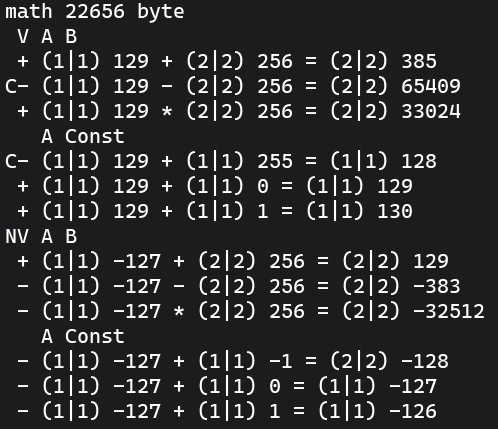
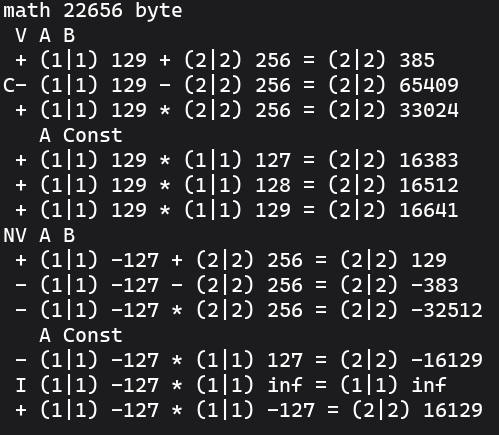
v14.2

diff --git a/main.c b/main.c
@@ -20,11 +20,11 @@ void Num(anu s, an a) { anu ns, t[m]; if (s > 8) { printf(" %d|? ", s + 1); retu
     else if (ns) printf("%u ", *(uint16_t*)a); else printf("%u ", *(uint8_t*)a); } }
 void Show(char s) { Flong(la,lb); Mat.C = 0;
   if (s == '+') FAdd(); else if (s == '-') FSub(); else if (s == '*') FMul(); else if (s == '/') FDiv();
-  else { FSubc(255); } printf("%c%c ", Mat.C ? 'C':' ', Mat.F ? (Mat.N ? 'I':'Z') : (Mat.N ? '-':'+'));
-  Num(la, Mat.A); if (s == 'c') printf("- "); else { printf("%c ", s); } Num(Mat.lb, Mat.b); printf("= "); Num(Mat.l, Mat.R);
+  else { FMulc(127); } printf("%c%c ", Mat.C ? 'C':' ', Mat.F ? (Mat.N ? 'I':'Z') : (Mat.N ? '-':'+'));
+  Num(la, Mat.A); if (s == 'c') printf("* "); else { printf("%c ", s); } Num(Mat.lb, Mat.b); printf("= "); Num(Mat.l, Mat.R);
   if (s == '/') { printf("  %c ", Mat.Fe ? (Mat.Ne ? 'I':'Z') : (Mat.Ne ? '-':'+')); Num(Mat.le, Mat.E); } printf("\n"); }
 void Const(void) { an sb; anu l, i = 2; printf("   A Const\n"); Show('c'); sb = Mat.B;
-  Mat.B = Mat.b; l = lb; lb = Mat.lb; while(i--) { (*Mat.B)++; Show('-'); } Mat.B = sb; lb = l; }
+  Mat.B = Mat.b; l = lb; lb = Mat.lb; while(i--) { (*Mat.B)++; Show('*'); } Mat.B = sb; lb = l; }
 void Test(void) { printf("%c%c A B\n", Mat.Nim ? 'N':' ', Mat.V ? 'V':' '); Show('+'); Show('-'); Show('*'); /*Show('/');*/Const(); }
 
 int main(void) { anu v = 1,a[m],b[m],e[m],r[m+m]; Faddr((As)r, (As)e, (As)a, (As)b);

diff --git a/README.md b/README.md
@@ -8,7 +8,7 @@
   <picture>
     <source media="(prefers-color-scheme: dark)" srcset="Plus/Spauseb.jpeg">
     <source media="(prefers-color-scheme: light)" srcset="Plus/Spausew.jpeg">
-    <img alt="Math Library Logo" src="Plus/971w.jpeg" width="100%">
+    <img alt="Math Library Show" src="Plus/Spausew.jpeg" width="100%">
   </picture>
 
 </div>
@@ -16,7 +16,7 @@
 P.s.: Блокировку убрали как только добавил сообщение о ней на главную страницу, длилась минут 20 как я заметил и принял меры чтоб сообщить об этом Вам. Это сообщение останется (20.09.2026 ~16.00 по местному +7) как память, так, что буду стараться вопреки не востребованности в России по данной области дабы остальной народ мог этим воспользоваться. Проанализируйте события с момента как я вернулся в эту сферу (конец января 2026 выложен Products готовый полностью затем занялся Fresh в начале февраля 2026), всё это время обновлялся код и было забавно видеть на open.net новости - даже компании серьёзные их как озарило - так, что у меня нет желания и времени следить за соблюдением GPLv3 из России, а вот Вы, если заметите нарушение прав, то гарантирую 50% ваши в любом случае.
 
 <div align="center">
-  <h1>Результат запуска v14.1</h1>
+  <h1>Результат запуска v14.2</h1>
   
   <picture>
     <source media="(prefers-color-scheme: dark)" srcset="Plus/psb.jpeg">
